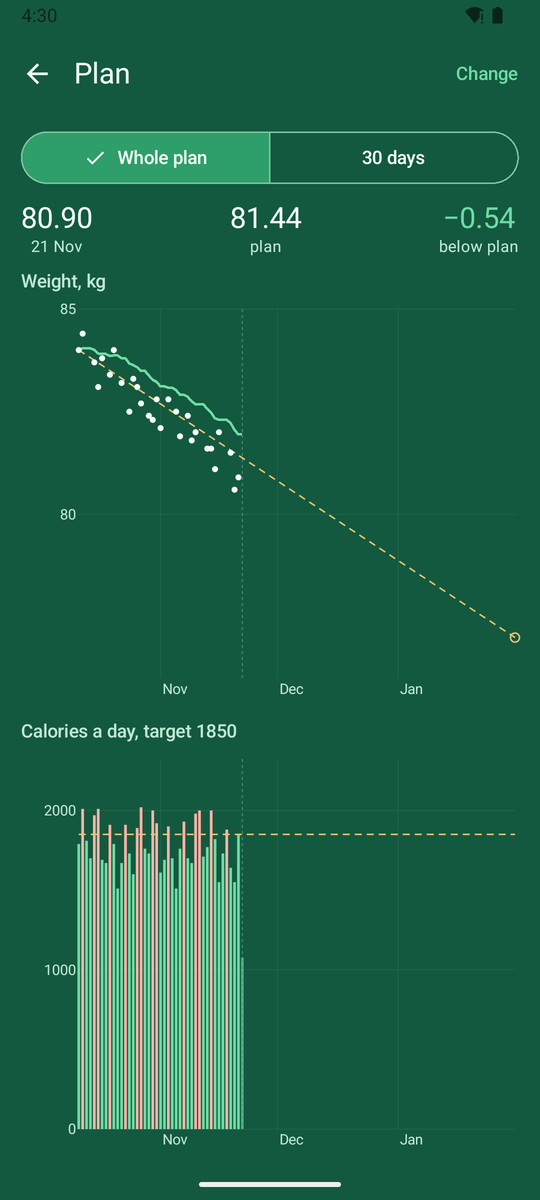
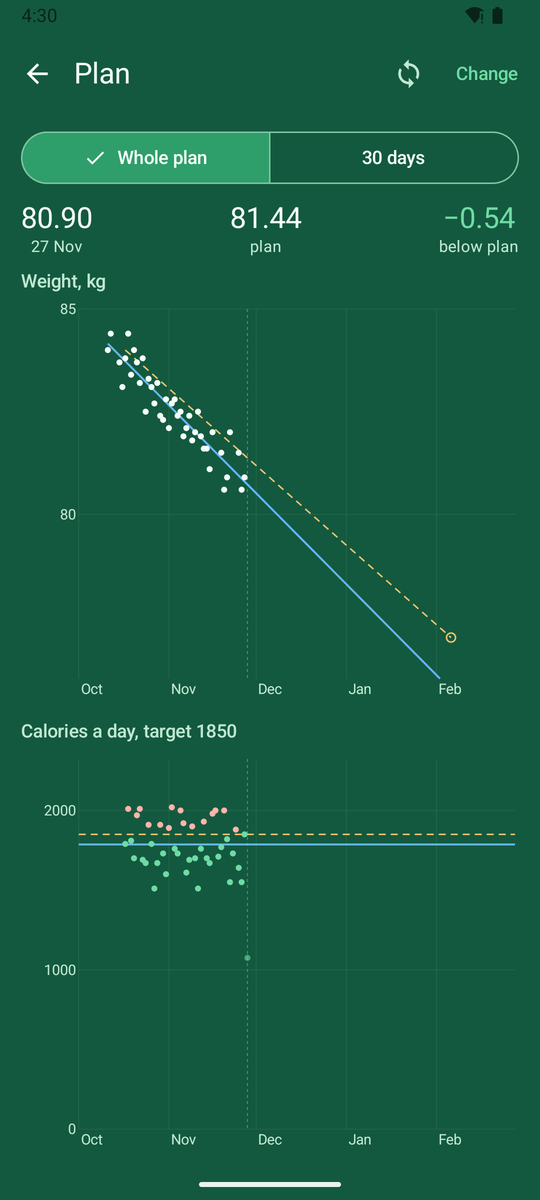
Screenshots redone, with the Review screen (made-up review in the demo seed)

diff --git a/app/src/demo/java/dev/michelle/DemoSeedActivity.kt b/app/src/demo/java/dev/michelle/DemoSeedActivity.kt
@@ -86,5 +86,19 @@ class DemoSeedActivity : Activity() {
         }
         hc.insertRecords(weights)
         Log.i("michelle", "demo seed: ${weights.size} weights")
+
+        // a made-up review, as if Claude had written it this morning (no API call in the demo)
+        app.reviews.save(DEMO_REVIEW, System.currentTimeMillis(), today.minusDays(14), today.minusDays(1), 14, "claude-opus-5-5")
     }
 }
+
+private const val DEMO_REVIEW = """{
+"headline": "A steady two weeks: about 1,790 kcal a day, a little under your 1,850 target, and your weight is following the plan.",
+"points": [
+ {"title": "Weekends run higher", "text": "Saturdays and Sundays averaged about 1,950 kcal, some 250 more than weekdays, and three of the four days over the target were weekend days."},
+ {"title": "Weight on track", "text": "Your weighings are going down about half a kilo a week, within a few hundred grams of the plan line."},
+ {"title": "Protein could be higher", "text": "Around 90 g a day, a fifth of your calories. Yogurt at breakfast is a good start: Greek yogurt instead of plain would add about 10 g."},
+ {"title": "Good snacks", "text": "Fruit and a handful of almonds in the afternoon keep you away from the vending machine; 20 g of almonds is 115 kcal, so one handful is the right amount."}
+],
+"focus": "At the weekend, have the pasta with a big salad and skip the second helping: about 250 kcal less each day, enough to bring Saturday and Sunday in line with the target."
+}"""

diff --git a/README.md b/README.md
@@ -7,9 +7,10 @@ your other health apps see it. The home screen shows today's meals and the day's
 For one person on a Pixel 10 (Android 16), installed over USB. Uses your own Anthropic API key.
 
 <p>
-  <img src="docs/today.png" width="260" alt="Today: the day's calories against the target, and the meals">
-  <img src="docs/meal.png" width="260" alt="A meal: the photo, calories and macros, and each food, editable">
-  <img src="docs/plan.png" width="260" alt="Plan: weight against the plan line, and calories a day against the target">
+  <img src="docs/today.png" width="200" alt="Today: the day's calories against the target, and the meals">
+  <img src="docs/meal.png" width="200" alt="A meal: the photo, calories and macros, and each food, editable">
+  <img src="docs/plan.png" width="200" alt="Plan: weight against the plan line, and calories a day against the target">
+  <img src="docs/review.png" width="200" alt="Review: Claude looks back at two weeks of meals">
 </p>
 
 ## Build and run
@@ -126,7 +127,7 @@ tools/set-key.sh            the API key onto the phone
 tools/screenshots.sh        the README screenshots, from an emulator (made-up data)
 app/src/main/java/dev/michelle/
   App.kt                    the app's parts; syncs Health Connect on start
-  MainActivity.kt           the screens (Today, Meal, Settings) and the camera
+  MainActivity.kt           the screens (Today, Meal, Plan, Review, Settings) and the camera
   Meals.kt                  save/delete: the database first, Health Connect after
   Secrets.kt, Settings.kt   the API key (Keystore-encrypted), the model
   ai/Analyzer.kt            Claude: the photo in, JSON out (structured output), errors
